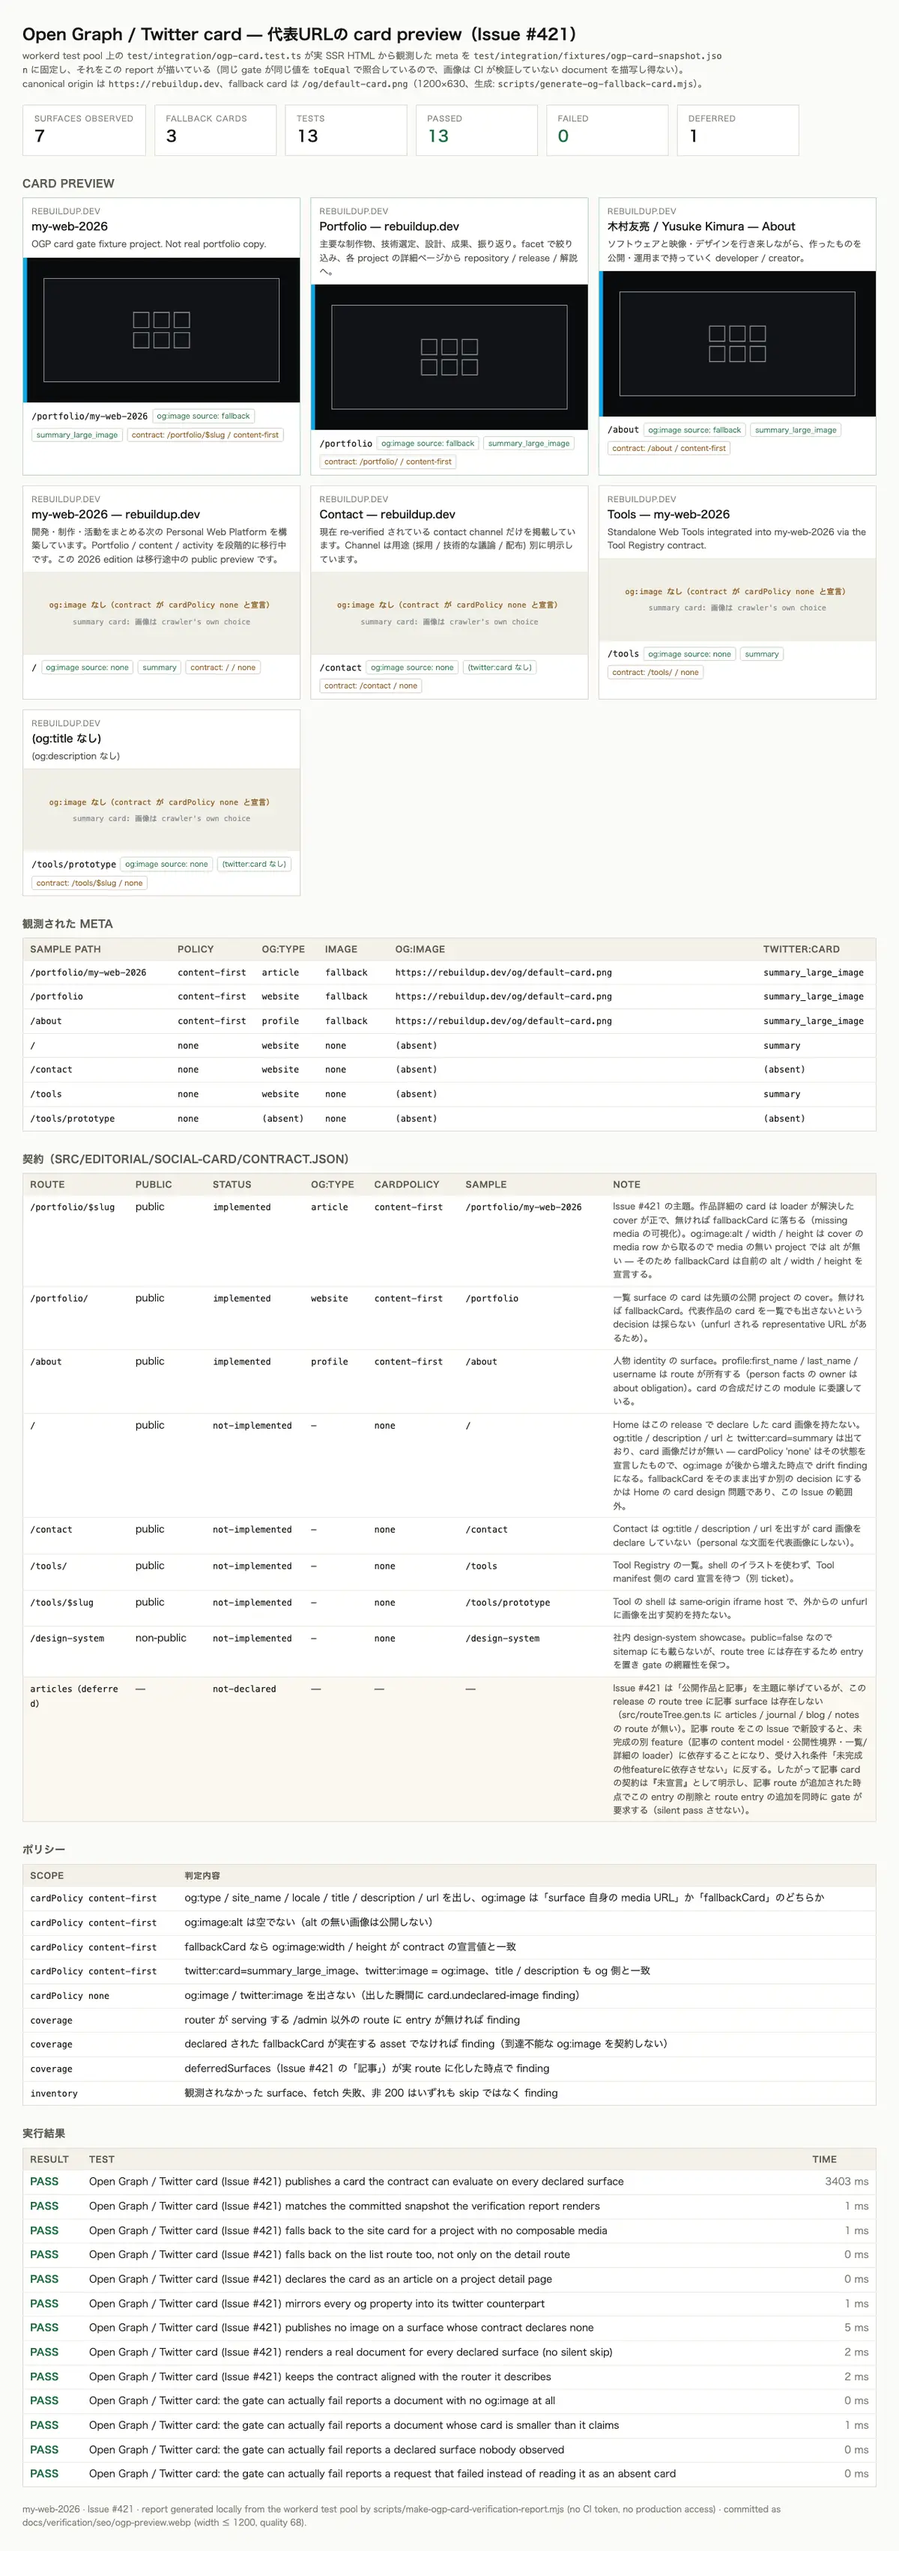
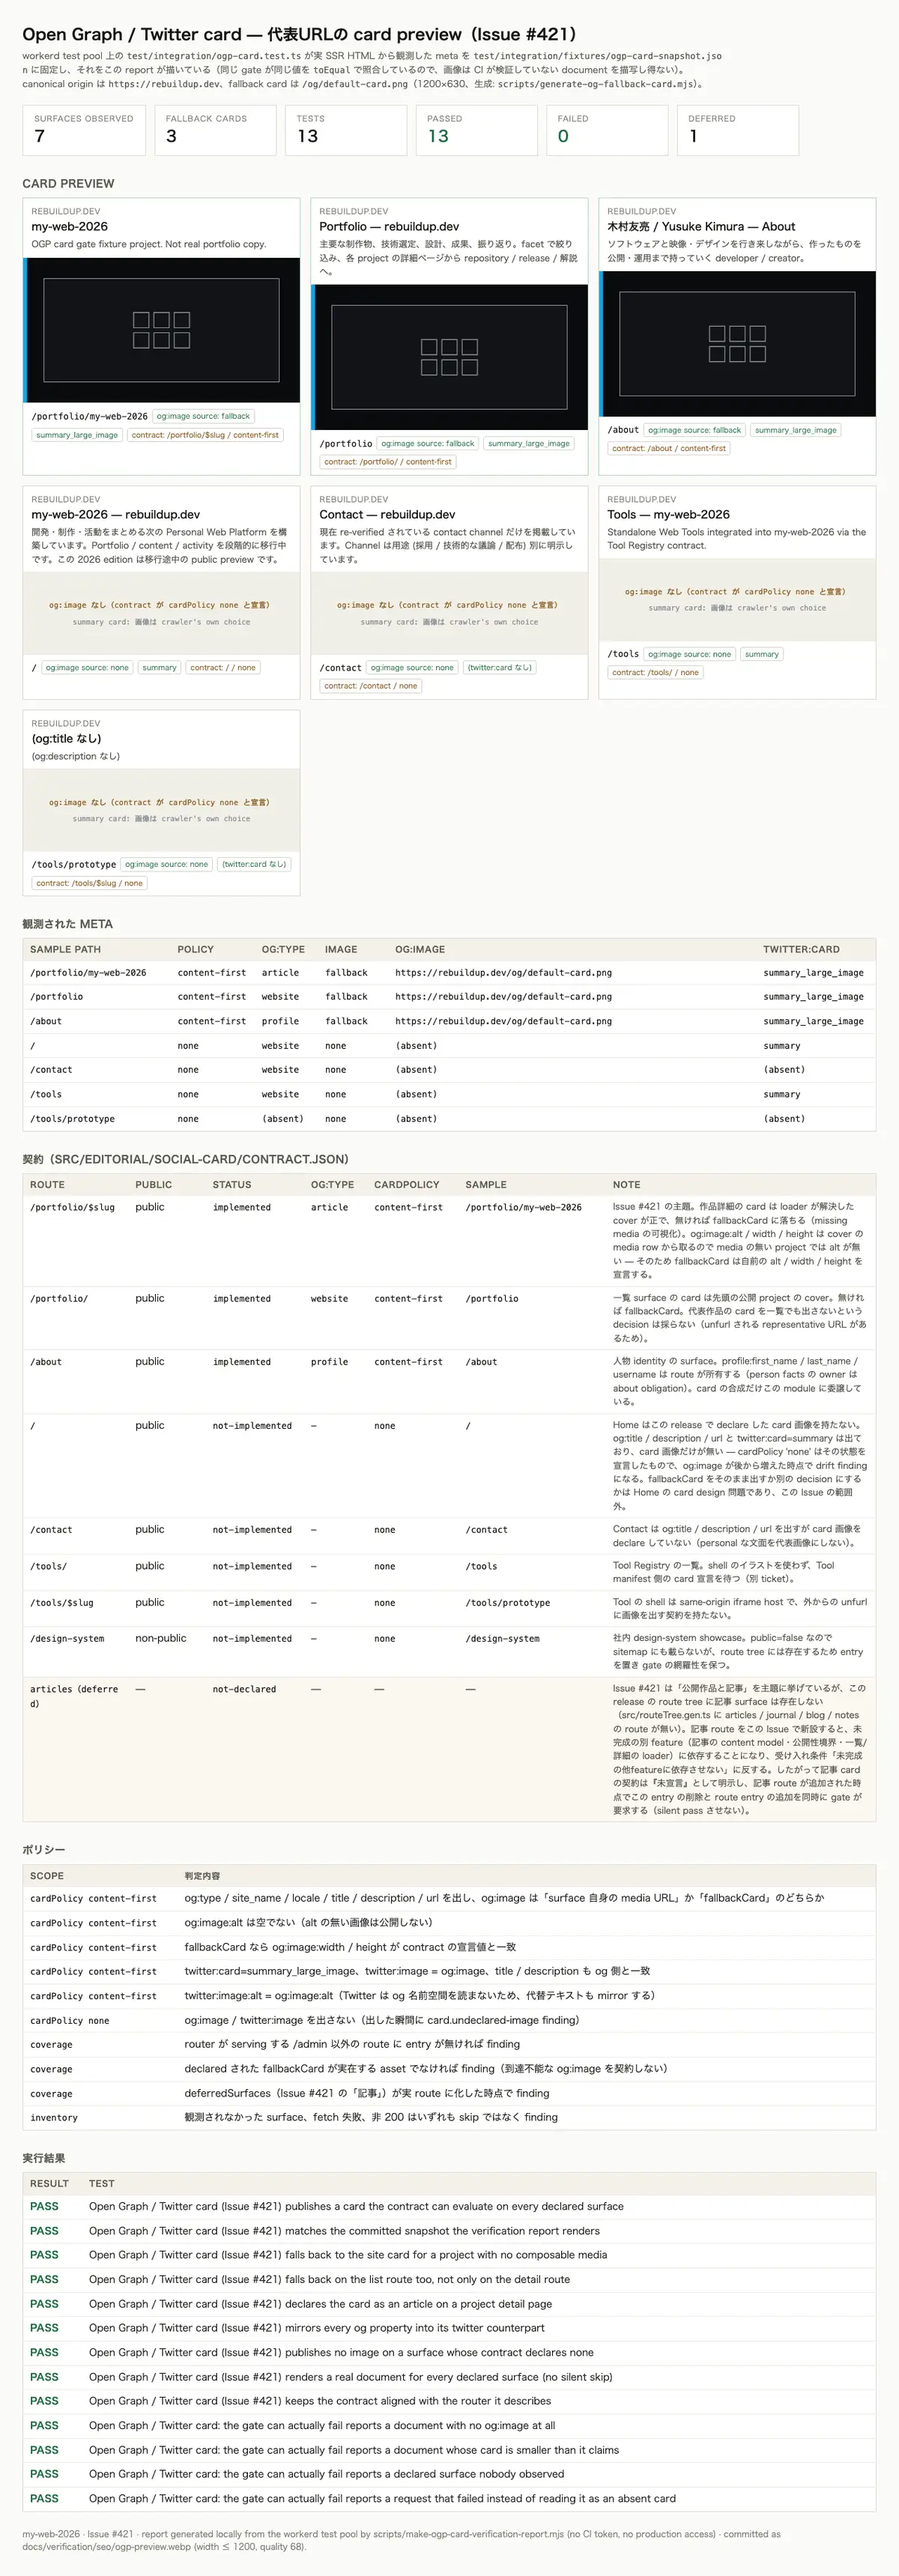
fix(seo): mirror the card alt into twitter and tighten the cover walk (#421)
Review findings on the social-card contract:

- `composeSocialCard` emitted `og:image:alt` but no `twitter:image:alt`,
  so a Twitter consumer read the same image nameless. The engine now
  judges `card.twitter-image-alt`, `IMAGE_TAG_KEYS` covers the tag for
  `cardPolicy: none`, and the unit + integration gates assert the mirror.
- `/about` and `/portfolio/` stopped the cover walk at the first media
  row even when `composeMediaUrl` returned null, publishing the fallback
  while a later project had a usable cover. They now skip an unusable row
  and continue, matching both doc comments.
- The card unit test claimed to assert the deferred article declaration
  but only checked that no route path contained "article"; it now reads
  `DEFERRED_SURFACES`.
- The fallback-card generator duplicated the contract's path and
  geometry behind a "keep in sync" comment; it reads `contract.json` now.
- The verification report ran `npx vitest` and printed per-test
  durations, so a re-run could not reproduce the committed WebP. It uses
  `pnpm exec vitest` and drops the timing column; two consecutive runs
  now produce identical bytes.
- Chinese fragments in the contract reason and the verification doc.

diff --git a/src/editorial/social-card/card.test.ts b/src/editorial/social-card/card.test.ts
@@ -1,6 +1,7 @@
 import { describe, expect, it } from 'vitest';
 import {
 	CANONICAL_ORIGIN,
+	DEFERRED_SURFACES,
 	FALLBACK_CARD,
 	FALLBACK_CARD_URL,
 	OG_TYPES,
@@ -103,8 +104,12 @@ describe('social card contract (contract.json)', () => {
 		// Issue #421 names 記事. The repository has no article route, so
 		// the contract must say so explicitly rather than let the gap
 		// read as "nothing to check".
+		expect(DEFERRED_SURFACES.map((surface) => surface.id)).toEqual(['articles']);
 		const articles = ROUTE_COVERAGE.filter((entry) => entry.path.includes('article'));
 		expect(articles).toEqual([]);
+		const [deferred] = DEFERRED_SURFACES;
+		expect(deferred.reason.trim().length).toBeGreaterThan(40);
+		expect(deferred.reason).toContain('route tree');
 	});
 });
 
@@ -174,6 +179,7 @@ describe('composeSocialCard', () => {
 		expect(map.get('og:image:width')).toBe('1600');
 		expect(map.get('og:image:height')).toBe('900');
 		expect(map.get('twitter:image')).toBe(CONTENT_IMAGE.url);
+		expect(map.get('twitter:image:alt')).toBe(CONTENT_IMAGE.alt);
 		expect(map.get('twitter:card')).toBe('summary_large_image');
 		expect(map.get('og:type')).toBe('article');
 		expect(map.get('og:site_name')).toBe(SITE_NAME);
@@ -192,6 +198,7 @@ describe('composeSocialCard', () => {
 		expect(map.get('og:image:width')).toBe(String(FALLBACK_CARD.width));
 		expect(map.get('og:image:height')).toBe(String(FALLBACK_CARD.height));
 		expect(map.get('twitter:image')).toBe(FALLBACK_CARD_URL);
+		expect(map.get('twitter:image:alt')).toBe(FALLBACK_CARD.alt);
 		expect(map.get('twitter:card')).toBe('summary_large_image');
 	});
 
@@ -213,7 +220,9 @@ describe('composeSocialCard', () => {
 		const map = toMap(card.meta);
 		expect(card.image).toBeNull();
 		expect(map.get('og:image')).toBeUndefined();
+		expect(map.get('og:image:alt')).toBeUndefined();
 		expect(map.get('twitter:image')).toBeUndefined();
+		expect(map.get('twitter:image:alt')).toBeUndefined();
 		expect(map.get('twitter:card')).toBe('summary');
 	});
 

diff --git a/src/editorial/social-card/card.ts b/src/editorial/social-card/card.ts
@@ -136,8 +136,16 @@ export function fallbackCardImage(): ResolvedCardImage {
  * Always emits: `og:type`, `og:site_name`, `og:locale`, `og:title`,
  * `og:description`, `og:url` and `twitter:card`. Emits the image block
  * (`og:image` + `og:image:alt` + `og:image:width` / `og:image:height`
- * when the intrinsic size is known, and the mirrored `twitter:image`)
- * whenever an image resolves — which, under `content-first`, is always.
+ * when the intrinsic size is known, and the mirrored `twitter:image` +
+ * `twitter:image:alt`) whenever an image resolves — which, under
+ * `content-first`, is always.
+ *
+ * The alt text is mirrored into the twitter namespace because a
+ * Twitter consumer reads `twitter:image:alt` and ignores
+ * `og:image:alt`: without the mirror the same image would be
+ * published nameless to exactly the consumer the fallback rule exists
+ * for, so the `never publish an image without alt text` contract would
+ * hold for half the tag families only.
  */
 export function composeSocialCard(input: SocialCardInput): SocialCard {
 	const socialTitle = input.socialTitle?.trim() || input.title;
@@ -169,7 +177,10 @@ export function composeSocialCard(input: SocialCardInput): SocialCard {
 	meta.push({ name: 'twitter:card', content: image ? 'summary_large_image' : 'summary' });
 	meta.push({ name: 'twitter:title', content: socialTitle });
 	meta.push({ name: 'twitter:description', content: input.description });
-	if (image) meta.push({ name: 'twitter:image', content: image.url });
+	if (image) {
+		meta.push({ name: 'twitter:image', content: image.url });
+		meta.push({ name: 'twitter:image:alt', content: image.alt });
+	}
 
 	return { meta, image };
 }

diff --git a/src/routes/about.tsx b/src/routes/about.tsx
@@ -109,9 +109,14 @@ function AboutRoute() {
  *
  * The visitor is not promised a specific project as the "hero image"
  * — we take the first one that is actually published + public + has a
- * media row, and hand `null` back when there is none so the composer
- * can publish the site fallback card rather than fabricating an image
- * for a project the page does not show.
+ * media row **whose composed URL is usable**, and hand `null` back when
+ * there is none so the composer can publish the site fallback card
+ * rather than fabricating an image for a project the page does not
+ * show. A media row whose `composeMediaUrl` returned `null` (unbound
+ * R2 custom domain, invalid key) is skipped rather than stopping the
+ * walk: a later experience project with a usable cover is a better
+ * answer than the fallback, and the fallback still remains available
+ * when no project resolves one.
  */
 function firstExperienceCover(
 	projects: ReadonlyArray<{
@@ -126,7 +131,7 @@ function firstExperienceCover(
 ) {
 	for (const project of projects) {
 		const media = project.media.find((m) => m.isCover) ?? project.media[0];
-		if (!media) continue;
+		if (!media?.url) continue;
 		return { url: media.url, alt: media.alt, width: media.width, height: media.height };
 	}
 	return null;

diff --git a/src/routes/portfolio/index.tsx b/src/routes/portfolio/index.tsx
@@ -140,15 +140,17 @@ function parseFacets(raw: string | undefined): PortfolioFacet[] {
 
 /**
  * The first published cover on the list, or `null` when the page has
- * no project or no project resolves a public image URL. Returning
- * null (rather than a partially-built image) is what keeps the
- * fallback branch honest: the list cannot publish a card that names a
- * project it did not render.
+ * no project or no project resolves a public image URL. A media row
+ * whose `composeMediaUrl` returned `null` is skipped so the walk
+ * continues to the next project rather than stopping the list on an
+ * unusable row. Returning null (rather than a partially-built image)
+ * is what keeps the fallback branch honest: the list cannot publish a
+ * card that names a project it did not render.
  */
 function firstProjectCover(projects: readonly PortfolioProject[]) {
 	for (const project of projects) {
 		const media = project.media.find((m) => m.isCover) ?? project.media[0];
-		if (!media) continue;
+		if (!media?.url) continue;
 		return { url: media.url, alt: media.alt, width: media.width, height: media.height };
 	}
 	return null;

diff --git a/test/integration/ogp-card.test.ts b/test/integration/ogp-card.test.ts
@@ -341,6 +341,11 @@ describe('Open Graph / Twitter card (Issue #421)', () => {
 				tags.find((tag) => tag.property === key || tag.name === key)?.content ?? null;
 			expect(read('twitter:card'), samplePath).toBe('summary_large_image');
 			expect(read('twitter:image'), samplePath).toBe(read('og:image'));
+			// Twitter reads its own namespace: an unmirrored alt would
+			// publish the same image nameless to the consumer the
+			// fallback rule exists for.
+			expect(read('twitter:image:alt'), samplePath).toBe(read('og:image:alt'));
+			expect(read('og:image:alt'), samplePath).toBeTruthy();
 			expect(read('twitter:title'), samplePath).toBe(read('og:title'));
 			expect(read('twitter:description'), samplePath).toBe(read('og:description'));
 		}
